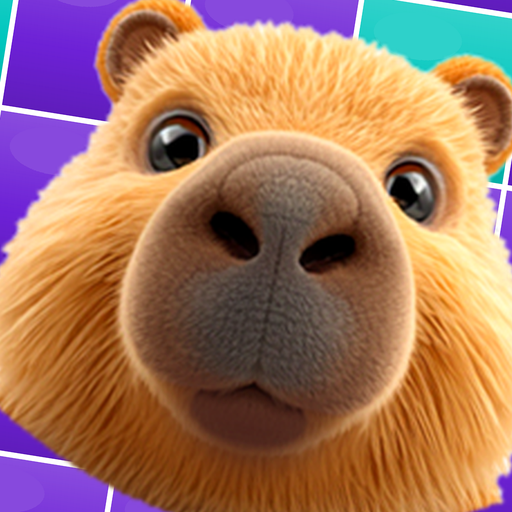
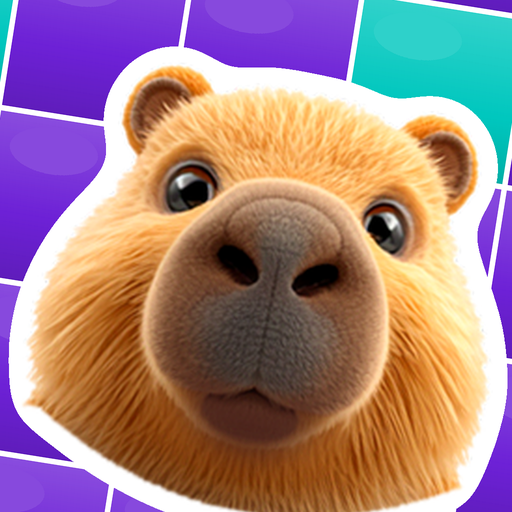
아이콘: 얼굴에 흰 테두리 — 이게 있어야 또렷해진다
런처에서 옆 아이콘들과 나란히 놓고 보니 혼자 뿌옜다(사용자 지적).
카피 털은 가장자리가 부슬부슬해서 배경 위에 그냥 얹으면 **경계가 녹아
없어진다.** 스티커처럼 흰 선을 한 바퀴 두르니 배경이 무슨 색이든 실루엣이
딱 선다 — 레퍼런스도 같은 수법이다.

테두리는 알파를 흐린 뒤 문턱을 넘는 곳만 남겨 만든다(로 부풀리면
1024px에서 몇 초씩 걸린다).

얼굴은 0.755 → 0.625로 줄였다. **테두리가 잘리면 있으나 마나**여서, 보이는
영역(가운데 66%) 안에 머리가 통째로 들어와야 한다. 줄였는데도 보이는
아이콘의 94%를 얼굴이 채운다 — 전에는 큰 만큼 잘려 나가고 있었다.

diff --git a/tool/gen_icon.py b/tool/gen_icon.py
@@ -16,7 +16,7 @@
   assets/icon/icon_fg.png  얼굴만(적응형 아이콘 전경, 안전영역에 맞춘 여백)
 """
 import os
-from PIL import Image, ImageDraw
+from PIL import Image, ImageDraw, ImageFilter
 
 SIZE = 1024
 RIG = 'assets/rig'
@@ -129,6 +129,33 @@ def background(size):
 
 TILT = -11  # 갸웃한 각도. 정면으로 세워 두면 증명사진처럼 뻣뻣하다.
 
+# 얼굴 둘레에 두르는 흰 테두리의 굵기(얼굴 높이 대비).
+#
+# **이게 있고 없고가 "또렷하다"와 "흐릿하다"를 가른다.** 카피 털은 가장자리가
+# 부슬부슬해서 배경 위에 그냥 얹으면 경계가 녹아 없어진다 — 런처에서 옆
+# 아이콘들과 나란히 놓고 보면 혼자 뿌옇다. 스티커처럼 흰 선을 두르면 배경이
+# 무슨 색이든 실루엣이 딱 선다(레퍼런스도 같은 수법이다).
+OUTLINE_W = 0.038
+
+
+def outlined(im, width):
+    """알파를 부풀려 흰 테두리를 만들고 그 위에 원본을 얹는다.
+
+    가장자리를 흐린 뒤 문턱을 넘는 곳만 남기는 방식이다 — `MaxFilter`로
+    부풀리면 1024px에서 몇 초씩 걸린다.
+    """
+    pad = width * 2
+    big = Image.new('RGBA', (im.width + pad * 2, im.height + pad * 2),
+                    (0, 0, 0, 0))
+    big.alpha_composite(im, (pad, pad))
+    grown = big.getchannel('A') \
+        .filter(ImageFilter.GaussianBlur(width)) \
+        .point(lambda v: 255 if v > 28 else 0)
+    ring = Image.new('RGBA', big.size, (255, 255, 255, 255))
+    ring.putalpha(grown)
+    ring.alpha_composite(big)
+    return ring
+
 
 def face(height, tilt=TILT):
     """리그 조각을 합쳐 얼굴 한 장으로. 살짝 갸웃하게 기울인다."""
@@ -143,7 +170,8 @@ def face(height, tilt=TILT):
     # 안 커진다("더 크게" 했는데 그대로인 이유가 이거였다).
     im = im.crop(im.getbbox())
     w = round(im.width * height / im.height)
-    return im.resize((w, height), Image.LANCZOS)
+    im = im.resize((w, height), Image.LANCZOS)
+    return outlined(im, max(2, round(height * OUTLINE_W)))
 
 
 def rising(base, size, height_ratio, cx_ratio, top_ratio, tilt=TILT):
@@ -171,14 +199,15 @@ def main():
 
     # **얼굴은 가운데, 턱까지 다 보이게, 사방으로 판이 남게.**
     # 레퍼런스(Meowdoku)가 정확히 이 구도다.
-    rising(bg, SIZE, 1.08, 0.50, -0.02).convert('RGB').save(f'{OUT}/icon.png')
+    rising(bg, SIZE, 0.90, 0.50, 0.05).convert('RGB').save(f'{OUT}/icon.png')
 
-    # 적응형 전경은 **훨씬 작아야 한다.** 바깥 1/3(108dp 중 36dp)이 잘려
-    # 나가므로, 가운데 66% 안에서 다시 여백을 두고 앉혀야 턱이 안 잘린다.
-    # 레거시와 같은 숫자를 쓰다가 런처에서 입이 잘린 아이콘을 세 번 냈다.
+    # 적응형 전경은 **보이는 영역(가운데 66%) 안에 통째로 들어와야 한다.**
+    # 그보다 크게 잡으면 흰 테두리가 위아래로 잘려 나가고, 테두리가 잘리면
+    # 있으나 마나다 — 실루엣이 딱 서 보이는 건 테두리가 한 바퀴 다 돌 때다.
+    # 0.625면 보이는 아이콘의 94%를 얼굴이 채운다.
     # 실제로 잘린 모습은 `python3 tool/preview_icon.py`로 본다.
     fg = Image.new('RGBA', (SIZE, SIZE), (0, 0, 0, 0))
-    rising(fg, SIZE, 0.755, 0.50, 0.128).save(f'{OUT}/icon_fg.png')
+    rising(fg, SIZE, 0.625, 0.50, 0.1875).save(f'{OUT}/icon_fg.png')
 
     for n in ('icon.png', 'icon_bg.png', 'icon_fg.png'):
         print(f'{OUT}/{n}  {os.path.getsize(f"{OUT}/{n}") // 1024}KB')
